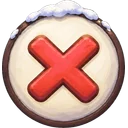
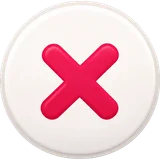
fix(hud): profile card follows the chosen mockup
- Cream card with the photo inset and rounded, a white speech balloon with
  its tail on the photo, name and age in Inter 800, outline pin with the
  distance, bio with its emoji; no interest chips
- New pass/like button art (red X, green heart) generated from the mockup
- Sizes follow the card width (container units); bigger card on the phone
  lying down, still above the attack button

diff --git a/src/client/hud/perfis.css b/src/client/hud/perfis.css
@@ -1,24 +1,31 @@
 /*
- * "Inimigo novo" as a dating-app profile (hud/perfis.ts): a white card in the top band's right corner, left of the
- * minimap on the desktop, under the top band on the phone. Several pile up as a fan around their bottom edge.
- * Generic app look (no real brand): the heroes' Insta palette (tokens.css --insta-*), the game's cartaz font for the name.
+ * "Inimigo novo" as a dating-app profile (hud/perfis.ts), laid out as the mockup the user chose (etapa 1, opção 8): a
+ * cream card with the photo inset and rounded, a white speech balloon on the photo with its tail towards the face,
+ * "Name, age" in Inter 800, the pin and the distance, the bio, and the two big round ChatGPT buttons (✕ and ♥).
+ * Sizes follow the card's width (container units), so PC and phone keep the same proportions. Generic app look, no
+ * real brand. In the top band's right corner: left of the minimap on the desktop, under the top band on the phone.
+ * Several pile up as a fan around their bottom edge.
  */
-.rh .rh-perfis{--perfil-w:clamp(150px,min(19vw,34vh),208px);position:absolute;z-index:var(--z-hud);top:calc(var(--rh-t) + 64px);right:var(--rh-r);
+.rh .rh-perfis{--perfil-w:clamp(150px,min(19vw,36vh),236px);position:absolute;z-index:var(--z-hud);top:calc(var(--rh-t) + 64px);right:var(--rh-r);
   width:var(--perfil-w);pointer-events:none}
 .rh:has(>.rh-minimap) .rh-perfis{right:calc(var(--rh-r) + clamp(124px,30vmin,210px) + 18px)}
 .rh .rh-perfis.rh-perfis-espera{visibility:hidden}
 /* The phone's HUD keeps its minimap on the left (fone.css) or by the joystick: the card takes the right corner. */
 .rh[data-hud=fone]:has(>.rh-minimap) .rh-perfis,.rh[data-hud=fone] .rh-perfis{right:max(8px,var(--rh-r))}
 @media (max-width:599px){
-  /* Phone upright: the minimap went down by the joystick; the card hangs under the top band, on the right. */
-  .rh .rh-perfis,.rh:has(>.rh-minimap) .rh-perfis{--perfil-w:min(37vw,148px);top:calc(var(--rh-t) + 96px);right:max(8px,var(--rh-r))}
-  .rh-perfil-foto{aspect-ratio:1/.92}
-  /* A tight fan around the bottom-right corner: the older cards never reach the hero in the middle of the screen. */
+  /* Phone upright: under the top band; a tight fan around the bottom-right corner never reaches the hero in the middle. */
+  .rh .rh-perfis,.rh:has(>.rh-minimap) .rh-perfis{--perfil-w:min(44vw,172px);top:calc(var(--rh-t) + 96px);right:max(8px,var(--rh-r))}
   .rh-perfil{--fan-k:.35;transform-origin:100% 100%}
 }
+/* Phone on its side: a short screen, a smaller card that ends above the Atacar button. */
+@media (max-height:460px){
+  .rh .rh-perfis,.rh:has(>.rh-minimap) .rh-perfis{--perfil-w:clamp(144px,40vh,164px);top:calc(var(--rh-t) + 50px)}
+  .rh-perfil{--fan-k:.4;transform-origin:100% 100%}
+}
 
-.rh-perfil{position:absolute;top:0;right:0;width:100%;box-sizing:border-box;border-radius:var(--r-insta);background:var(--insta-fundo);color:var(--insta-texto);
-  box-shadow:0 0 0 2px var(--c-breu),0 6px 0 rgba(30,21,48,.35);overflow:hidden;font-family:var(--f-sistema);
+.rh-perfil{position:absolute;top:0;right:0;width:100%;box-sizing:border-box;container-type:inline-size;padding:3.4%;border-radius:calc(var(--perfil-w) * .07);
+  background:#FBF7F3;color:#16131A;font-family:'Inter',var(--f-sistema);
+  box-shadow:0 0 0 1px rgba(30,21,48,.16),0 3px 0 rgba(30,21,48,.22);
   transform-origin:50% 100%;opacity:0;transform:translate(calc(var(--fan-x,0px) * var(--fan-k,1) + 46px),var(--fan-y,0px)) rotate(calc(var(--fan-rot,0deg) * var(--fan-k,1) + 8deg)) scale(.92);
   transition:transform .26s cubic-bezier(.2,1.4,.4,1),opacity .18s ease-out}
 .rh-perfil.rh-perfil-in{opacity:1;transform:translate(calc(var(--fan-x,0px) * var(--fan-k,1)),var(--fan-y,0px)) rotate(calc(var(--fan-rot,0deg) * var(--fan-k,1)))}
@@ -26,40 +33,33 @@
 .rh-perfil[data-sai=passar]{opacity:0;transform:translate(-150%,24px) rotate(-26deg);transition:transform .32s ease-in,opacity .32s ease-in}
 .rh-perfil[data-saindo]{opacity:0;transform:translate(150%,24px) rotate(24deg);transition:transform .32s ease-in,opacity .32s ease-in}
 
-.rh-perfil-foto{position:relative;aspect-ratio:1/1.08;background:var(--perfil-cor,var(--c-lilas))}
-.rh-perfil-img{display:block;width:100%;height:100%;object-fit:cover;object-position:50% 18%;opacity:0;transition:opacity .15s}
+/* The photo: inset, rounded, wider than tall as in the mockup (the face is in the portrait's upper part). */
+.rh-perfil-foto{position:relative;aspect-ratio:1.4/1;border-radius:4.5cqw;overflow:hidden;background:var(--perfil-cor,var(--c-lilas))}
+.rh-perfil-img{display:block;width:100%;height:100%;object-fit:cover;object-position:50% 22%;opacity:0;transition:opacity .15s}
 .rh-perfil[data-foto=ok] .rh-perfil-img{opacity:1}
-.rh-perfil-recado{position:absolute;top:7px;right:7px;max-width:68%;margin:0;padding:5px 8px;border-radius:12px 12px 3px 12px;background:#fff;color:var(--insta-texto);
-  font:600 calc(11px * var(--t-escala,1))/1.2 var(--f-sistema);box-shadow:0 0 0 1.5px var(--c-breu),0 2px 0 rgba(30,21,48,.3)}
 
-.rh-perfil-info{padding:7px 9px 4px}
-.rh-perfil-nome{margin:0;font:400 calc(16px * var(--t-escala,1))/1.05 var(--f-sistema);color:var(--insta-texto)}
-.rh-perfil-nome b{font:400 calc(18px * var(--t-escala,1))/1 var(--f-cartaz);letter-spacing:.01em}
-.rh-perfil-dist{display:flex;align-items:center;gap:4px;margin:3px 0 0;font:500 calc(11px * var(--t-escala,1))/1.2 var(--f-sistema);color:var(--insta-cinza)}
-.rh-perfil-dist::before{content:'';width:7px;height:7px;border-radius:50% 50% 50% 0;transform:rotate(-45deg);background:var(--insta-curtir);flex:none}
-.rh-perfil-bio{margin:4px 0 0;font:500 calc(11.5px * var(--t-escala,1))/1.25 var(--f-sistema)}
-.rh-perfil-tags{display:flex;flex-wrap:wrap;gap:3px;margin:5px 0 0;padding:0;list-style:none}
-.rh-perfil-tags li{padding:2px 6px;border-radius:var(--r-pilula,999px);background:var(--insta-chip);border:1px solid var(--insta-linha);font:600 calc(10px * var(--t-escala,1))/1.2 var(--f-sistema)}
+/* The speech balloon: white, rounded, a thin rim, its tail at the bottom-left towards the face. */
+.rh-perfil-balao{position:absolute;top:6%;right:5%;max-width:52%;margin:0;padding:2.6cqw 3.8cqw;border-radius:5.5cqw;background:#fff;color:#16131A;
+  font:500 6cqw/1.2 'Inter',var(--f-sistema);text-align:center;box-shadow:0 0 0 1px rgba(30,21,48,.22)}
+/* The tail: a rim triangle and a white one 1 px inside it, the white one covering the balloon's rim where they meet. */
+.rh-perfil-balao::before,.rh-perfil-balao::after{content:'';position:absolute;left:16%;width:6cqw;height:4.4cqw;clip-path:polygon(0 0,100% 0,8% 100%)}
+.rh-perfil-balao::before{bottom:-4.4cqw;background:rgba(30,21,48,.32)}
+.rh-perfil-balao::after{bottom:calc(-4.4cqw + 1.5px);left:calc(16% + 1px);width:calc(6cqw - 2.5px);background:#fff}
 
-.rh-perfil-botoes{display:flex;justify-content:center;gap:20px;padding:2px 0 7px}
-.rh-perfil-botoes button{width:40px;height:40px;padding:0;border:0;background:none;cursor:pointer;pointer-events:auto;touch-action:manipulation}
+.rh-perfil-info{padding:3.4cqw 2cqw 0}
+.rh-perfil-nome{margin:0;font:800 7.6cqw/1.15 'Inter',var(--f-sistema);color:#16131A;letter-spacing:-.01em}
+.rh-perfil-dist{display:flex;align-items:center;gap:1.6cqw;margin:1.4cqw 0 0;font:400 5.4cqw/1.2 'Inter',var(--f-sistema);color:#2C2832}
+.rh-perfil-dist svg{width:5.6cqw;height:5.6cqw;flex:none;color:#55505C}
+.rh-perfil-bio{margin:1.4cqw 0 0;font:400 5.4cqw/1.25 'Inter',var(--f-sistema);color:#2C2832}
+
+.rh-perfil-botoes{display:flex;justify-content:center;gap:15cqw;padding:4cqw 0 1.5cqw}
+.rh-perfil-botoes button{width:21cqw;height:21cqw;padding:0;border:0;background:none;cursor:pointer;pointer-events:auto;touch-action:manipulation}
 .rh-perfil-botoes button:active{transform:scale(.9)}
-.rh-perfil-botoes img{display:block;width:100%;height:100%;filter:drop-shadow(0 2px 0 rgba(30,21,48,.3))}
+.rh-perfil-botoes img{display:block;width:100%;height:100%}
 
-.rh-perfil-match{position:absolute;left:50%;top:34%;padding:3px 10px;border:3px solid var(--c-cartolina);border-radius:8px;color:var(--c-cartolina);background:rgba(251,250,248,.86);
-  font:400 calc(24px * var(--t-escala,1))/1 var(--f-cartaz);letter-spacing:.03em;white-space:nowrap;opacity:0;transform:translate(-50%,-50%) rotate(-14deg) scale(1.6);
+.rh-perfil-match{position:absolute;left:50%;top:30%;padding:1cqw 4cqw;border:1cqw solid #2DB84B;border-radius:3cqw;color:#2DB84B;background:rgba(251,247,243,.9);
+  font:800 9cqw/1 'Inter',var(--f-sistema);letter-spacing:.02em;white-space:nowrap;opacity:0;transform:translate(-50%,-50%) rotate(-14deg) scale(1.6);
   transition:opacity .12s,transform .2s cubic-bezier(.2,1.6,.4,1)}
 .rh-perfil[data-sai=curtir] .rh-perfil-match{opacity:1;transform:translate(-50%,-50%) rotate(-14deg) scale(1)}
 
-/* Phone on its side: a short screen, so the card lies down too (photo on the left), above the Atacar button. */
-@media (max-height:460px){
-  .rh .rh-perfis,.rh:has(>.rh-minimap) .rh-perfis{--perfil-w:min(300px,38vw);top:calc(var(--rh-t) + 52px)}
-  .rh-perfil{--fan-k:.4;display:grid;grid-template-columns:40% 1fr;grid-template-rows:1fr auto;transform-origin:100% 100%}
-  .rh-perfil-foto{grid-row:1/3;aspect-ratio:auto;min-height:100%}
-  .rh-perfil-recado{left:6px;right:auto;max-width:none;top:auto;bottom:6px;font-size:calc(10px * var(--t-escala,1))}
-  .rh-perfil-info{padding:6px 8px 0}
-  .rh-perfil-tags li:nth-child(n+3){display:none}
-  .rh-perfil-botoes{padding:2px 0 6px}
-  .rh-perfil-botoes button{width:32px;height:32px}
-}
 @media (prefers-reduced-motion:reduce){.rh-perfil,.rh-perfil-match{transition:none}}

diff --git a/src/client/hud/perfis-texto.ts b/src/client/hud/perfis-texto.ts
@@ -1,45 +1,45 @@
 /**
- * The enemies' dating-app profiles (card nome-inimigo-rede-social): the age, the bio, the message in the photo's balloon
- * and three interests of each roster kind that has a photo (public/art/perfis/<id>.webp, scripts/import-perfis.mjs).
+ * The enemies' dating-app profiles (card nome-inimigo-rede-social): the age, the bio (with its emoji, as in the chosen
+ * mockup) and the message in the photo's speech balloon of each roster kind that has a photo (public/art/perfis/<id>.webp,
+ * scripts/import-perfis.mjs).
  * The name is the roster's (rules/enemy-roster.ts). Humor: design/HUMOR-ADULT-SWIM.md (D-047); no real person, brand,
- * song or anything sexual. Bio ≤ 64 chars, recado ≤ 28, each interest ≤ 18 (tests/client/perfis.test.ts).
+ * song or anything sexual. Bio ≤ 66 chars, recado ≤ 28 (tests/client/perfis.test.ts).
  * Lote 1: the P0 of rounds 1–3, the P0 mini-bosses and the P0 bosses (22).
  */
 export interface PerfilTexto {
   /** "47", or a joke in place of the number ("vence hoje"). */
   idade:string;
   bio:string;
-  /** The balloon over the photo: the first thing it says to you. */
+  /** The speech balloon on the photo: the first thing it says to you. */
   recado:string;
-  interesses:readonly [string,string,string];
 }
 
 export const PERFIS_TEXTO:Readonly<Record<string,PerfilTexto>>=Object.freeze({
   // Corredores (rodadas 1–3)
-  bebado:{idade:'47',bio:'Procuro alguém que me leve pra casa. Qualquer casa.',recado:'tu é poste? te abraçava',interesses:['Saideira','Poste','Hino às 4h']},
-  'estagiario-imortal':{idade:'19 (há 31 anos)',bio:'Efetivação prevista pra semana que vem desde 1994.',recado:'posso pegar seu café?',interesses:['Café dos outros','Crachá provisório','Reunião longa']},
-  'furry-de-convencao':{idade:'26',bio:'Não é fantasia. Paguei em 14 parcelas, agora é documento.',recado:'aceita abraço de pelúcia?',interesses:['Convenção','Lavanderia 24 h','Rabo removível']},
-  'ressaca-ambulante':{idade:'33',bio:'Domingo eterno. Prometi nunca mais beber. Ontem.',recado:'fala baixo, por favor',interesses:['Óculos escuros','Soro caseiro','Arrependimento']},
+bebado:{idade:'47',bio:'Procuro alguém que me leve pra casa. Qualquer casa. 🍺',recado:'tu é poste? te abraçava'},
+'estagiario-imortal':{idade:'19 (há 31 anos)',bio:'Efetivação prevista pra semana que vem desde 1994. ☕',recado:'posso pegar seu café?'},
+'furry-de-convencao':{idade:'26',bio:'Não é fantasia. Paguei em 14 parcelas, agora é documento. 🐾',recado:'aceita abraço de pelúcia?'},
+'ressaca-ambulante':{idade:'33',bio:'Domingo eterno. Prometi nunca mais beber. Ontem. 🥴',recado:'fala baixo, por favor'},
   // Enxame
-  'boleto-vivo':{idade:'vence hoje',bio:'Te procurei o mês inteiro. Agora é pessoal (e com juros).',recado:'lembrou de mim, amor?',interesses:['Juros','Código de barras','Seu CPF']},
-  'bot-de-curtida':{idade:'fabricado ontem',bio:'Curto tudo. Inclusive você. Inclusive a sua queda.',recado:'curti sua foto de 2013',interesses:['Joinha','Comentar "top"','Seguir de volta']},
-  'cachorro-de-madame':{idade:'4 (anos de spa)',bio:'Nunca pisei no chão. Mordo quem pisou.',recado:'não encosta no casaco',interesses:['Almofada','Tosa na lua','Morder canela']},
-  pombos:{idade:'3 (cada)',bio:'Somos 40 e dividimos uma coxinha. Você é a coxinha.',recado:'oi sumida, cadê o pão?',interesses:['Farelo','Estátua','Bombardeio']},
-  'rato-de-boteco':{idade:'2',bio:'Listras feitas de caneta. Rujo, mas sai um miado.',recado:'RAWR (é sério)',interesses:['Queijo coalho','Academia','Fugir de gato']},
+'boleto-vivo':{idade:'vence hoje',bio:'Te procurei o mês inteiro. Agora é pessoal (e com juros). 💸',recado:'lembrou de mim, amor?'},
+'bot-de-curtida':{idade:'fabricado ontem',bio:'Curto tudo. Inclusive você. Inclusive a sua queda. 👍',recado:'curti sua foto de 2013'},
+'cachorro-de-madame':{idade:'4 (anos de spa)',bio:'Nunca pisei no chão. Mordo quem pisou. 💅',recado:'não encosta no casaco'},
+pombos:{idade:'3 (cada)',bio:'Somos 40 e dividimos uma coxinha. Você é a coxinha. 😌',recado:'oi sumida, cadê o pão?'},
+'rato-de-boteco':{idade:'2',bio:'Listras feitas de caneta. Rujo, mas sai um miado. 🐯',recado:'RAWR (é sério)'},
   // Palhaços
-  'bebado-do-karaoke':{idade:'51',bio:'Só canto uma. Já são 4 h e ainda é a mesma.',recado:'faz o dueto comigo?',interesses:['Agudo','Lantejoula','Microfone alheio']},
-  'chefe-pizza':{idade:'44',bio:'Gestor de pessoas e de borda recheada. Bora alinhar?',recado:'tem 5 min? é rápido',interesses:['Planilha','Feedback','Orégano']},
-  'cliente-do-gerente':{idade:'52',bio:'Já fui atendida. Mal. Quero o gerente do gerente.',recado:'cadê o responsável?',interesses:['Reclamar','Cupom vencido','Falar com o dono']},
-  'cunhado-sabe-tudo':{idade:'39',bio:'Vi um vídeo. Agora sou engenheiro, médico e juiz.',recado:'na verdade, é assim ó',interesses:['Churrasco','Opinião','Grupo da família']},
-  'primo-do-violao':{idade:'23',bio:'Sei 3 acordes e 1 música. A música é longa.',recado:'posso tocar só uma?',interesses:['Violão','Fogueira','A mesma música']},
-  quadrilheiro:{idade:'35',bio:'Meu par é um espantalho. Ele dança melhor e sabe disso.',recado:'olha a cobra! é mentira',interesses:['Arraiá','Anarriê','Quentão']},
-  'tio-pave':{idade:'58',bio:'É pavê ou pra comer? Pergunto isso há 30 anos.',recado:'é pavê ou pra comer?',interesses:['Trocadilho','Pavê','Ceia de Natal']},
+'bebado-do-karaoke':{idade:'51',bio:'Só canto uma. Já são 4 h e ainda é a mesma. 🎤',recado:'faz o dueto comigo?'},
+'chefe-pizza':{idade:'44',bio:'Gestor de pessoas e de borda recheada. Bora alinhar? 🍕',recado:'tem 5 min? é rápido'},
+'cliente-do-gerente':{idade:'52',bio:'Já fui atendida. Mal. Quero o gerente do gerente. 😤',recado:'cadê o responsável?'},
+'cunhado-sabe-tudo':{idade:'39',bio:'Vi um vídeo. Agora sou engenheiro, médico e juiz. 🤓',recado:'na verdade, é assim ó'},
+'primo-do-violao':{idade:'23',bio:'Sei 3 acordes e 1 música. A música é longa. 🎸',recado:'posso tocar só uma?'},
+quadrilheiro:{idade:'35',bio:'Meu par é um espantalho. Ele dança melhor e sabe disso. 🤠',recado:'olha a cobra! é mentira'},
+'tio-pave':{idade:'58',bio:'É pavê ou pra comer? Pergunto isso há 30 anos. 😏',recado:'é pavê ou pra comer?'},
   // Mini-chefes
-  'pombo-rei':{idade:'12 (reinado vitalício)',bio:'Herdei a praça. Meu único súdito é o farelo.',recado:'ajoelha e traz pão',interesses:['Coroa','Pão francês','Estátuas']},
-  'rei-do-boteco':{idade:'61',bio:'Dono do balcão, da saideira e da sua conta pendurada.',recado:'a saideira é tua',interesses:['Sino','Fiado','Balcão']},
-  'trio-eletrico':{idade:'modelo 98',bio:'Sem motorista desde o carnaval de 2011. Ainda tocando.',recado:'SAI DA FRENTE (com amor)',interesses:['Grave','Confete','Freio (nunca usei)']},
+'pombo-rei':{idade:'12 (reinado vitalício)',bio:'Herdei a praça. Meu único súdito é o farelo. 👑',recado:'ajoelha e traz pão'},
+'rei-do-boteco':{idade:'61',bio:'Dono do balcão, da saideira e da sua conta pendurada. 🔔',recado:'a saideira é tua'},
+'trio-eletrico':{idade:'modelo 98',bio:'Sem motorista desde o carnaval de 2011. Ainda tocando. 🎉',recado:'SAI DA FRENTE (com amor)'},
   // Chefes
-  chefe:{idade:'64',bio:'Multo você por existir. Em ata, com firma reconhecida.',recado:'barulho após as 22 h?',interesses:['Ata','Assembleia','Multa']},
-  'dj-do-fim-do-mundo':{idade:'40',bio:'Meu drop derruba prédio. Literalmente. Chama a defesa civil.',recado:'segura que o drop vem',interesses:['Grave','Fumaça','Apocalipse']},
-  'o-grande-credor':{idade:'eterno',bio:'Você me deve desde antes de nascer. Parcelo seu fim em 12x.',recado:'e aquele pix, hein?',interesses:['Juros compostos','Aviãozinho','Cobrança']},
+chefe:{idade:'64',bio:'Multo você por existir. Em ata, com firma reconhecida. 📋',recado:'barulho após as 22 h?'},
+'dj-do-fim-do-mundo':{idade:'40',bio:'Meu drop derruba prédio. Literalmente. Chama a defesa civil. 🎧',recado:'segura que o drop vem'},
+'o-grande-credor':{idade:'eterno',bio:'Você me deve desde antes de nascer. Parcelo seu fim em 12x. 🤑',recado:'e aquele pix, hein?'},
 });

diff --git a/src/client/hud/perfis.ts b/src/client/hud/perfis.ts
@@ -1,8 +1,8 @@
 /**
  * "Inimigo novo" as a dating-app profile (card nome-inimigo-rede-social): the first time a kind with a profile comes
- * near the hero (NEAR_M; the boss from anywhere), its card opens in the top band's right corner for PROFILE_MS: the
- * ChatGPT photo with its message balloon, "Name, age", how far it is, the bio and three interests, and the ✕ / ✓
- * buttons (pictures from the same artist). The match never pauses. Several new kinds in a row pile up as a FAN, like
+ * near the hero (NEAR_M; the boss from anywhere), its card opens in the top band's right corner for PROFILE_MS, laid out
+ * as the mockup the user chose (evidence etapa1 opção 8): the ChatGPT photo with its speech balloon, "Name, age", the
+ * pin and how far it is, the bio, and the ✕ / ♥ buttons (ChatGPT pictures made from that mockup). The match never pauses. Several new kinds in a row pile up as a FAN, like
  * cards in a hand (at most FAN_MAX; the rest wait their turn). ✕ throws the card away, ✓ stamps "DEU MATCH" first.
  * Each kind shows once per phone (PERFIS_KEY in localStorage; this page's memory when storage is off). While a window
  * holds the screen (level-up offer, pause, result) the fan hides and its clock stands still.
@@ -125,6 +125,8 @@ const el=<K extends keyof HTMLElementTagNameMap>(doc:Document,tag:K,className:st
   const node=doc.createElement(tag);node.className=className;parent?.append(node);return node;
 };
 const hex=(n:number)=>`#${n.toString(16).padStart(6,'0')}`;
+/** The map pin of the distance line (outline, as in the mockup). */
+const PIN_SVG='<svg viewBox="0 0 24 24" aria-hidden="true"><path d="M12 2.5a7 7 0 0 0-7 7c0 5.2 7 12 7 12s7-6.8 7-12a7 7 0 0 0-7-7Z" fill="currentColor"/><circle cx="12" cy="9.5" r="2.6" fill="#fff"/></svg>';
 
 export interface ProfilesOptions {
   /** Where the local hero stands (RunHud.setHero), for the distance; undefined: every kind counts as near. */
@@ -154,13 +156,11 @@ export function createProfiles(doc:Document,options:ProfilesOptions):ProfilesPar
     const img=el(doc,'img','rh-perfil-img',foto);img.alt='';img.draggable=false;img.decoding='async';
     const ready=()=>{node.dataset.foto='ok';};
     img.onload=ready;img.src=p.foto;if(img.complete&&img.naturalWidth>0)ready();
-    el(doc,'p','rh-perfil-recado',foto).textContent=p.recado;
+    el(doc,'p','rh-perfil-balao',foto).textContent=p.recado;
     const info=el(doc,'div','rh-perfil-info',node);
-    const title=el(doc,'h3','rh-perfil-nome',info);
-    el(doc,'b','',title).textContent=p.name;title.append(`, ${p.idade}`);
-    el(doc,'p','rh-perfil-dist',info);
+    el(doc,'h3','rh-perfil-nome',info).textContent=`${p.name}, ${p.idade}`;
+    const dist=el(doc,'p','rh-perfil-dist',info);dist.innerHTML=PIN_SVG;el(doc,'span','',dist);
     el(doc,'p','rh-perfil-bio',info).textContent=p.bio;
-    const tags=el(doc,'ul','rh-perfil-tags',info);for(const t of p.interesses)el(doc,'li','',tags).textContent=t;
     const buttons=el(doc,'div','rh-perfil-botoes',node);
     for(const how of ['passar','curtir'] as const){
       const b=el(doc,'button',`rh-perfil-${how}`,buttons);b.type='button';b.setAttribute('aria-label',how==='curtir'?'Curtir':'Passar');
@@ -184,7 +184,7 @@ export function createProfiles(doc:Document,options:ProfilesOptions):ProfilesPar
       node.style.zIndex=String(i<0?FAN_MAX+1:FAN_MAX-i);
       if(card.leaving&&node.dataset.sai!==card.leaving)node.dataset.sai=card.leaving;
       if(card.leaving==='curtir'&&(card.leftMs??0)>=MATCH_MS)node.dataset.saindo='1';
-      const dist=node.querySelector('.rh-perfil-dist') as HTMLElement;
+      const dist=node.querySelector('.rh-perfil-dist span') as HTMLElement;
       const text=card.distance===undefined?'por perto':`a ${distanceText(card.distance)} de você`;
       if(dist.textContent!==text)dist.textContent=text;
     }

diff --git a/tests/client/perfis.test.ts b/tests/client/perfis.test.ts
@@ -22,10 +22,9 @@ test('lote 1: 22 profiles, each a roster kind with its photo; the texts fit the 
     assert.ok(p,`${id} is in the roster`);
     assert.equal(p.name,ROSTER.find(e=>e.id===id)?.name);
     assert.ok(existsSync(fileURLToPath(new URL(`../../public${p.foto}`,import.meta.url))),`${id}: photo`);
-    assert.ok(p.bio.length<=64,`${id}: bio ${p.bio.length}`);
+    assert.ok(p.bio.length<=66,`${id}: bio ${p.bio.length}`);
     assert.ok(p.recado.length<=28,`${id}: recado ${p.recado.length}`);
     assert.ok(p.idade.length>0&&p.idade.length<=24,`${id}: idade`);
-    for(const t of p.interesses)assert.ok(t.length<=18,`${id}: ${t}`);
   }
   for(const b of ['curtir','passar'])assert.ok(existsSync(fileURLToPath(new URL(`../../public/art/perfis/botao-${b}.webp`,import.meta.url))));
   assert.equal(perfilOf('sogra-tita'),undefined,'a kind of a later batch has no card yet');
